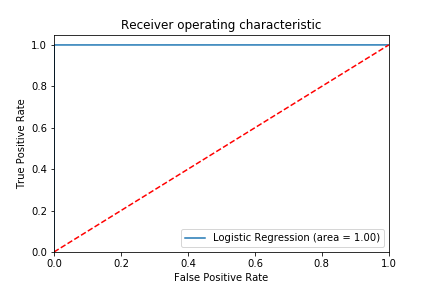
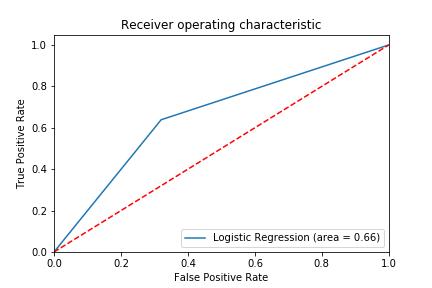
added in logit for victim data only

diff --git a/MiniLab/Jupyter Notebooks/MiniLab.html b/MiniLab/Jupyter Notebooks/MiniLab.html
@@ -1,3 +1,3 @@
 version https://git-lfs.github.com/spec/v1
-oid sha256:a41d0217be7931f8e08a8d6a5c36ede257a34f2f2b0ad3adb2bbd268d9370ff9
-size 484579
+oid sha256:b1a78bff2fc2499d5750e746b28b14ed4dbee78018f3dbfe5d0f7a84a358ef00
+size 631881
